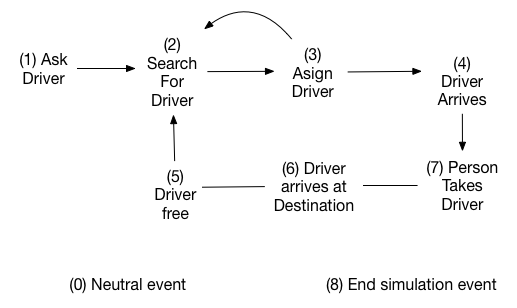
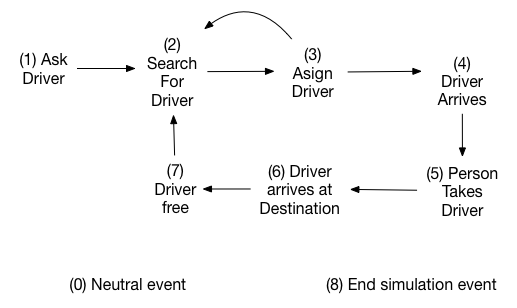
creating the events functions

Changed region(s): [[0.2785, 0.526, 0.8046, 0.7305], [0.8046, 0.4675, 0.9594, 0.7013]]

diff --git a/god.py b/god.py
@@ -9,21 +9,60 @@ class God(object):
 
         #init everthing
         
-    def _ask_uber(self):
-        #1. add Person to a list of watingListOfPersons
-        #2. if are Drivers free then
-        #2.1 if are Drivers free in less then 5km and are Uber or/and Taxis
-        #2.2 create an event of type 2 for the same time of simulation
+    #Event 1
+    def _ask_driver(self):
+        #1. add Person to a FIFO list of watingListOfPersons
+        #2. Create the event of type 2, its time should be sim_time (actual time)
         #3. Create the next event of this type (1)
+        pass
+
+    #Event 2
+    def _search_driver(self):
+        #1. get list of drivers which match the filters
+        #2. if empty do nothing
+        #3. else: get the closes driver to it and asign it
+        #4. Create time of event of type 3 with t=sim_time
+        pass
+
+    #Event 3
+    def _asign_driver(self):
+        #1. Remove driver from list of free drivers
+        #2. Create the event for the next event of type 4 base on coordinates (i.e. time)
+        pass
+
+    #Event 4
+    def _driver_arrives_at_initial_point(self):
+        # this method is just in order to update statics (?)
+        #1. Create the event of type 5 for the same time as sim_time
+        pass
+
+    #Event 5
+    def _person_takes_driver(self):
+        #1. Create the event of type 6 based on coordinates
+        pass
+
+    #Event 6
+    def _arrives_at_destination(self):
+        #1. Create the event of type 7 with t=sim_time
+        #2. And desactivate person
+        pass
+
+    #Event 7
+    def _driver_is_free(self):
+        #1. Create time for event of type 3 with t=sim_time
+        #2. Add driver to list of free drivers
         pass
     
     self._eventSelector = {
         0: None, #Neutral
         1: None, #Ask for driver
-        2: None, #Asign Driver
-        3: None, #Enter Driver
-        4: None, #Leave Driver
-        5: None, #Finish simulation
+        2: None, #Search for driver
+        3: None, #Asign Driver
+        4: None, #Driver arrives at initial point
+        5: None, #Person Takes driver 
+        6: None, #Driver arrives at destination 
+        7: None, #Driver is free
+        8: None, #Finish simulation
     }
 
     def startEverything(self):

diff --git a/readme.md b/readme.md
@@ -1,18 +1,30 @@
-# This is the readme file
+# Dummy model of Uber and Cabs market
 
 to run, just run it on python `python main.py`
 
+## Description
+
+This model will only allow to be asigned a taxi or an Uber, the Persons can request both but will get only one as a response.
+
 ## Flow of events
-![Alt text](others/img/Events.png?raw=true "Title")
+![events flow](others/img/Events.png?raw=true "Event flow")
 
 ## The types of events are:
 0. Neutral
-1. Ask for Driver
-2. Asign Driver
-3. Enter Driver
-4. Driver Free (or leave the cab or car)
-5. Finish
+1. Ask for driver 
+2. Search for driver 
+3. Asign Driver 
+4. Driver arrives at initial point
+7. Person takes driver 
+6. Arrives at destination 
+5. Driver is free 
+8. End simulation
 
-#Filters to asign a driver
+##Filters to asign a driver
 * Between 5km 
 * Closest
+
+##Uber policies
+This are the policies which uber can implement in order to run different experiments in **this model**
+
+* Assign policy on driver availability event: asing the free uber to the first user and not the closest  
